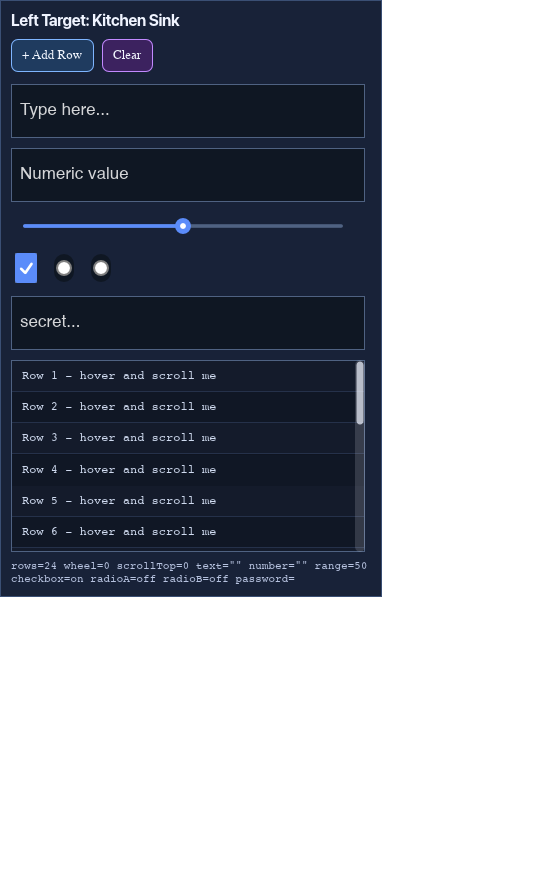
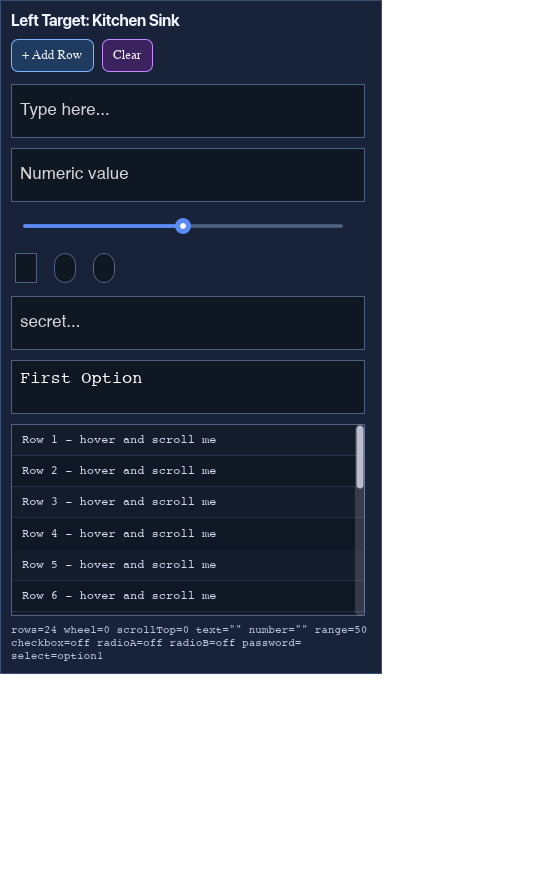
Fix closed <select> showing empty label
The JSX compiler emits insertNode(parent, child) before child's
attributes and grandchildren are set, so when each <option> was
inserted into its <select>, the rebuild ran against an empty option
(no value attr, no text child). The rebuild then never re-ran when
those bits showed up, leaving the select's synthetic display node
empty.

Trigger rebuild from the moments that actually populate the option:
inserting a text node into the option, and setAttr("value") on the
option. Also fix label extraction to walk into the option's first
text-node child instead of calling text_data() on the option element
itself (which is never a Text node). Funnel all synthetic-text writes
through set_node_text so blitz marks damage.

Changed region(s): [[0.0, 0.3989, 0.6982, 0.767], [0.0304, 0.2761, 0.2125, 0.3375], [0.6071, 0.3989, 0.6679, 0.5523]]

diff --git a/src/js/bridge.rs b/src/js/bridge.rs
@@ -87,15 +87,21 @@ fn rebuild_select_state_from_dom(
                         .find(|a| a.name.local.as_ref() == "value")
                         .map(|a| a.value.to_string())
                         .unwrap_or_else(|| {
-                            // Fallback to text content if no value attribute
+                            // Fallback to the option's text-node child if no value attribute.
                             doc.get_node(child_id)
+                                .and_then(|n| n.children.first().copied())
+                                .and_then(|grandchild_id| doc.get_node(grandchild_id))
                                 .and_then(|n| n.text_data())
                                 .map(|t| t.content.clone())
                                 .unwrap_or_default()
                         });
 
+                    // Option text lives in the first text-node child, not on the
+                    // element itself.
                     let label = doc
                         .get_node(child_id)
+                        .and_then(|n| n.children.first().copied())
+                        .and_then(|grandchild_id| doc.get_node(grandchild_id))
                         .and_then(|n| n.text_data())
                         .map(|t| t.content.clone())
                         .unwrap_or_else(|| value.clone());
@@ -134,6 +140,16 @@ fn rebuild_select_state_from_dom(
     } else {
         None
     }
+}
+
+/// Write `display_text` into the synthetic text node that sits as the first
+/// child of `select_id`. Uses `set_node_text` so blitz marks the subtree dirty
+/// and the next layout/style pass picks up the new content.
+fn sync_select_display_text(doc: &mut BaseDocument, select_id: usize, display_text: &str) {
+    let Some(display_node_id) = doc.get_node(select_id).and_then(|n| n.children.first().copied()) else {
+        return;
+    };
+    doc.mutate().set_node_text(display_node_id, display_text);
 }
 
 
@@ -271,8 +287,21 @@ impl DomBridge {
                             .set_attribute(node_id, attr_qual(&key), &value);
                         match key.as_str() {
                             "value" => {
-                                if let Some(state) = inputs.borrow_mut().get_mut(&node_id) {
-                                    state.set_value(value);
+                                let handled_input = inputs
+                                    .borrow_mut()
+                                    .get_mut(&node_id)
+                                    .map(|state| state.set_value(value))
+                                    .is_some();
+                                if !handled_input {
+                                    let parent_select_id = find_parent_select(&doc.borrow(), node_id);
+                                    if let Some(parent_select_id) = parent_select_id {
+                                        let borrow = doc.borrow();
+                                        let display_text = rebuild_select_state_from_dom(&borrow, &mut selects.borrow_mut(), parent_select_id);
+                                        drop(borrow);
+                                        if let Some(display_text) = display_text {
+                                            sync_select_display_text(&mut doc.borrow_mut(), parent_select_id, &display_text);
+                                        }
+                                    }
                                 }
                             }
                             "placeholder" => {
@@ -376,18 +405,10 @@ impl DomBridge {
                                     match key.as_str() {
                                         "value" | "selected" => {
                                             let borrow = doc.borrow();
-                                            if let Some(display_text) = rebuild_select_state_from_dom(&borrow, &mut selects.borrow_mut(), parent_select_id) {
-                                                drop(borrow);
-                                                let mut doc_mut = doc.borrow_mut();
-                                                if let Some(select_node) = doc_mut.get_node(parent_select_id) {
-                                                    if let Some(&display_node_id) = select_node.children.first() {
-                                                        if let Some(display_node) = doc_mut.get_node_mut(display_node_id) {
-                                                            if let Some(text_data) = display_node.text_data_mut() {
-                                                                text_data.content = display_text;
-                                                            }
-                                                        }
-                                                    }
-                                                }
+                                            let display_text = rebuild_select_state_from_dom(&borrow, &mut selects.borrow_mut(), parent_select_id);
+                                            drop(borrow);
+                                            if let Some(display_text) = display_text {
+                                                sync_select_display_text(&mut doc.borrow_mut(), parent_select_id, &display_text);
                                             }
                                         }
                                         _ => {}
@@ -593,24 +614,25 @@ impl DomBridge {
                             borrow.upsert_stylesheet_for_node(style_id);
                         }
 
-                        // If parent is a select, rebuild its options
-                        if borrow
-                            .get_node(parent)
-                            .and_then(|n| n.element_data())
-                            .is_some_and(|e| e.name.local.as_ref() == "select")
-                        {
-                            if let Some(display_text) = rebuild_select_state_from_dom(&borrow, &mut selects.borrow_mut(), parent) {
-                                drop(borrow);
-                                let mut borrow = doc.borrow_mut();
-                                if let Some(select_node) = borrow.get_node(parent) {
-                                    if let Some(&display_node_id) = select_node.children.first() {
-                                        if let Some(display_node) = borrow.get_node_mut(display_node_id) {
-                                            if let Some(text_data) = display_node.text_data_mut() {
-                                                text_data.content = display_text;
-                                            }
-                                        }
-                                    }
-                                }
+                        // If parent is a select directly, or an option inside a
+                        // select (so the inserted node contributes to an option's
+                        // label/value), rebuild the select.
+                        let select_to_rebuild = {
+                            let parent_node = borrow.get_node(parent);
+                            let tag = parent_node
+                                .and_then(|n| n.element_data())
+                                .map(|e| e.name.local.as_ref().to_owned());
+                            match tag.as_deref() {
+                                Some("select") => Some(parent),
+                                Some("option") => find_parent_select(&borrow, parent),
+                                _ => None,
+                            }
+                        };
+                        if let Some(select_id) = select_to_rebuild {
+                            let display_text = rebuild_select_state_from_dom(&borrow, &mut selects.borrow_mut(), select_id);
+                            drop(borrow);
+                            if let Some(display_text) = display_text {
+                                sync_select_display_text(&mut doc.borrow_mut(), select_id, &display_text);
                             }
                         }
 
@@ -642,18 +664,10 @@ impl DomBridge {
                         // Rebuild select state if this was an option
                         if let Some(select_id) = parent_select {
                             let borrow = doc.borrow();
-                            if let Some(display_text) = rebuild_select_state_from_dom(&borrow, &mut selects.borrow_mut(), select_id) {
-                                drop(borrow);
-                                let mut borrow = doc.borrow_mut();
-                                if let Some(select_node) = borrow.get_node(select_id) {
-                                    if let Some(&display_node_id) = select_node.children.first() {
-                                        if let Some(display_node) = borrow.get_node_mut(display_node_id) {
-                                            if let Some(text_data) = display_node.text_data_mut() {
-                                                text_data.content = display_text;
-                                            }
-                                        }
-                                    }
-                                }
+                            let display_text = rebuild_select_state_from_dom(&borrow, &mut selects.borrow_mut(), select_id);
+                            drop(borrow);
+                            if let Some(display_text) = display_text {
+                                sync_select_display_text(&mut doc.borrow_mut(), select_id, &display_text);
                             }
                         }
 
@@ -702,18 +716,10 @@ impl DomBridge {
 
                         if let Some(select_id) = parent_select {
                             let borrow = doc.borrow();
-                            if let Some(display_text) = rebuild_select_state_from_dom(&borrow, &mut selects.borrow_mut(), select_id) {
-                                drop(borrow);
-                                let mut borrow = doc.borrow_mut();
-                                if let Some(select_node) = borrow.get_node(select_id) {
-                                    if let Some(&display_node_id) = select_node.children.first() {
-                                        if let Some(display_node) = borrow.get_node_mut(display_node_id) {
-                                            if let Some(text_data) = display_node.text_data_mut() {
-                                                text_data.content = display_text;
-                                            }
-                                        }
-                                    }
-                                }
+                            let display_text = rebuild_select_state_from_dom(&borrow, &mut selects.borrow_mut(), select_id);
+                            drop(borrow);
+                            if let Some(display_text) = display_text {
+                                sync_select_display_text(&mut doc.borrow_mut(), select_id, &display_text);
                             }
                         }
 